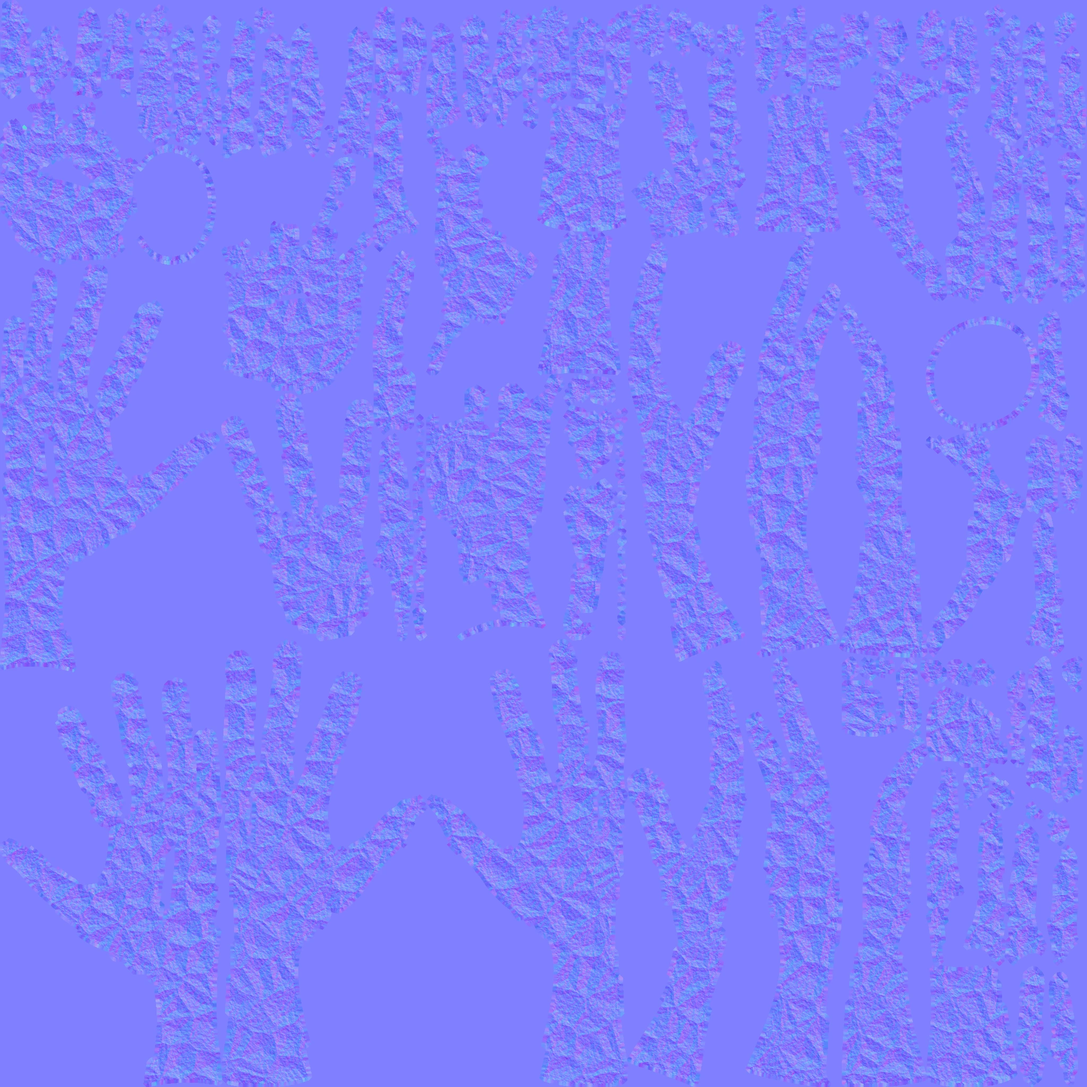
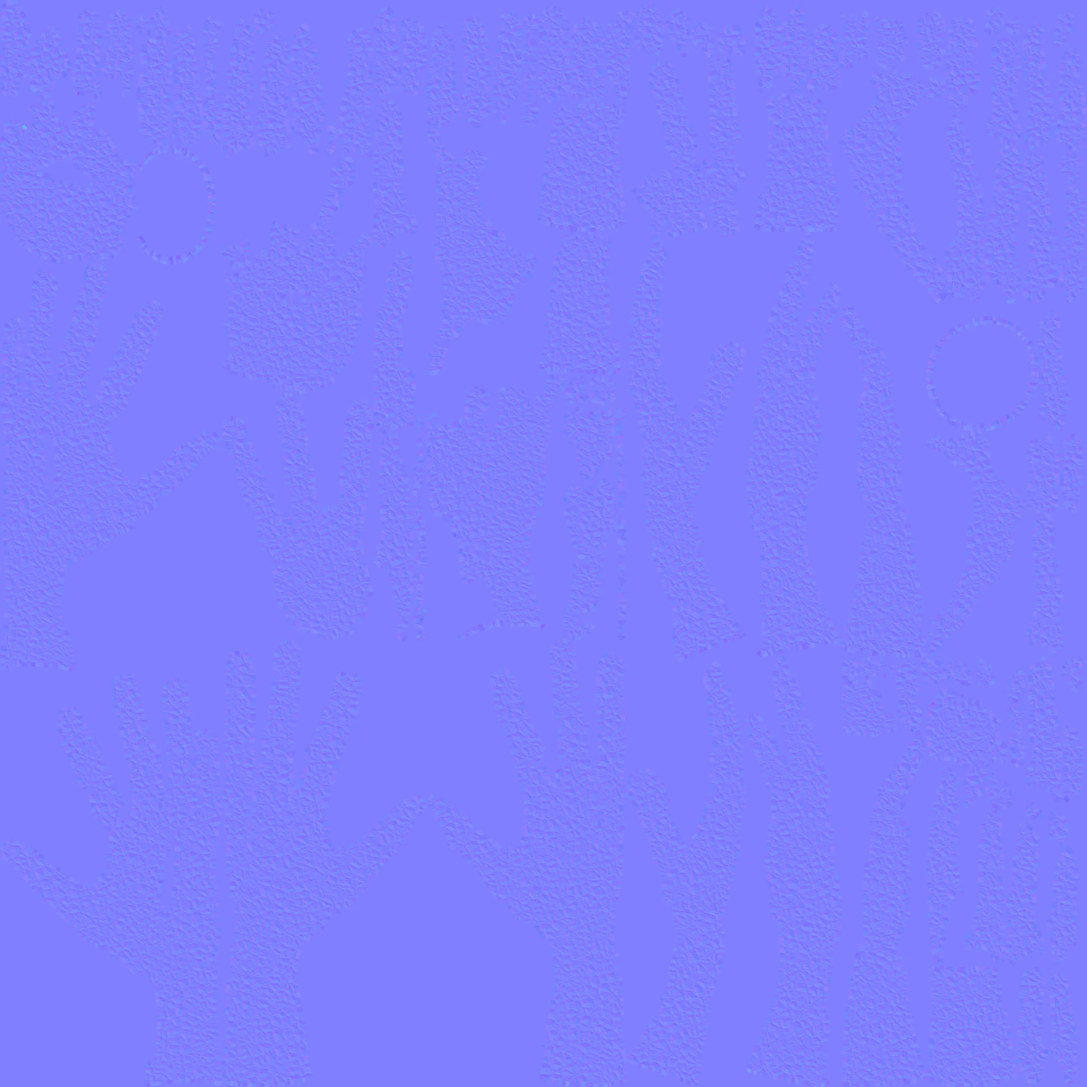
Strzelnica FPP: nadgarstki proste, dłonie naturalnie na broni
Obrót dłoni i biegun łokcia dobierane przeglądem pod najmniejsze zgięcie
nadgarstka po IK (lewy był zgięty ok. 100°), przedramię ukośnie w kadrze.
Prawa dłoń linią kostek na przedniej krawędzi chwytu pistoletowego, palce
przeglądem póz (razem, przylegają całą długością), skóra rękawic bez grud.

diff --git a/prototype/tools/fp_grip.py b/prototype/tools/fp_grip.py
@@ -48,12 +48,17 @@ PALM_R = 0.019                         # m — pół grubości dłoni w rękawic
 # (wzdłuż −back: wnętrze dłoni dotyka broni), `push` — przesunięcie punktu. `sink` — broń cofnięta (m, kolba chowa się w barku poza
 # kadrem) i podniesiona względem barków: obie ręce zgięte, przedramiona wchodzą w kadr od dołu (skrót jak w viewmodelach FPS; z pełną
 # długością lewa ręka szła prosto i poziomo przez kadr). `trigger` — punkt na przedniej ściance języka spustu (układ broni), do którego
-# sięga opuszka wskazującego.
+# sięga opuszka wskazującego. `roll` / `tilt` / `pole` — zakresy przeglądu obrotu dłoni i łokcia (orient_hand), `flex` — docelowe
+# zgięcie nadgarstka (°, < 0 — lekki wyprost), `dev` — dopuszczalne odchylenie nadgarstka (°; przy podparciu łoża łokciowe jest
+# naturalne), `screen` — kąt przedramienia w kadrze od pionu (lewe wchodzi ukośnie od lewego dołu, jak w viewmodelach FPS). `mcp` (zamiast `at` / `push` / `off`) — punkt kostki środkowego palca: dłoń na chwycie pistoletowym
+# ustawiana linią kostek na przedniej krawędzi chwytu, nasada dłoni obejmuje go od tyłu.
 GRIPS = {
     "m83": {
         "yaw": 35.0, "butt_dz": 0.02, "clav": (6.0, 12.0), "sink": (0.06, 0.07), "trigger": (0.068, 0.0, 0.086),
-        "right": {"at": "grip", "push": (-0.022, -0.004, 0.008), "up": (0.34, 0.0, 0.94), "back": (-0.25, -0.97, 0.0), "off": 0.022},
-        "left": {"at": "hold", "push": (0.0, 0.042, -0.03), "up": (1.0, 0.0, 0.0), "back": (0.0, 0.6, -0.8), "off": 0.012},
+        "right": {"at": "grip", "mcp": (0.014, -0.026, 0.056), "push": (-0.022, -0.004, 0.008), "up": (0.34, 0.0, 0.94),
+                  "back": (-0.25, -0.97, 0.0), "off": 0.022, "roll": 30, "tilt": 15},
+        "left": {"at": "hold", "push": (0.0, 0.042, -0.03), "up": (1.0, 0.0, 0.0), "back": (0.0, 0.6, -0.8), "off": 0.012,
+                 "roll": 60, "tilt": 20, "flex": -15.0, "dev": 22.0, "screen": 60.0},
     },
 }
 
@@ -141,13 +146,17 @@ def place_hand(rig, side, gun_m, info, conf, seat=Vector()):
     f, a, b, pc = hand_frame(rig, side)
     R = frame_matrix(ft, up, back) @ frame_matrix(f, a, b).inverted()
     w = P(rig, side + "Hand")
-    target_pc = gun_m @ (Vector(info[conf["at"]]) + Vector(conf["push"])) + back * conf["off"] + seat
+    if "mcp" in conf:                               # punkt kostki środkowego palca (chwyt pistoletowy: przednia krawędź chwytu)
+        half = (P(rig, side + "HandMiddle1") - P(rig, side + "Hand")).length * 0.5
+        target_pc = gun_m @ Vector(conf["mcp"]) - ft.normalized() * half + seat
+    else:
+        target_pc = gun_m @ (Vector(info[conf["at"]]) + Vector(conf["push"])) + back * conf["off"] + seat
     wrist = target_pc - R @ (pc - w)
     hw = (rig.matrix_world @ rig.pose.bones[PRE + side + "Hand"].matrix).to_3x3().normalized()
     return wrist, (R @ hw).normalized()        # docelowy obrót kości dłoni w świecie
 
 
-def solve_arm(rig, side, wrist, hand_rot, pole):
+def solve_arm(rig, side, wrist, hand_rot, pole, quiet=False):
     """IK ramienia (przedramię do nadgarstka, biegun łokcia), potem obrót dłoni — ograniczenia zapieczone w pozę."""
     pb_f = rig.pose.bones[PRE + side + "ForeArm"]
     pb_h = rig.pose.bones[PRE + side + "Hand"]
@@ -180,12 +189,22 @@ def solve_arm(rig, side, wrist, hand_rot, pole):
     for o in (tgt, pol, rot):
         bpy.data.objects.remove(o)
     update()
-    share_twist(rig, side, hand_rot)
+    tw = share_twist(rig, side, hand_rot, quiet=quiet)
     err = (P(rig, side + "Hand") - wrist).length
-    print("IK %s wrist error %.1f mm" % (side, err * 1000.0))
+    if not quiet:
+        print("IK %s wrist error %.1f mm" % (side, err * 1000.0))
+    return tw
 
 
-def share_twist(rig, side, hand_rot, share=0.6):
+def wrist_bend(rig, side):
+    """Zgięcie nadgarstka (°): `flex` — zgięcie / wyprost (w płaszczyźnie palce–grzbiet), `dev` — odchylenie promieniowe / łokciowe
+    (w płaszczyźnie palce–kostki). Oś przedramienia w układzie dłoni."""
+    f, a, b, _ = hand_frame(rig, side)
+    d = (P(rig, side + "Hand") - P(rig, side + "ForeArm")).normalized()
+    return math.degrees(math.atan2(d.dot(b), d.dot(f))), math.degrees(math.atan2(d.dot(a), d.dot(f)))
+
+
+def share_twist(rig, side, hand_rot, share=0.6, quiet=False):
     """Skręt nadgarstka dzielony z przedramieniem (szkielet nie ma kości skrętu): cały obrót dłoni wokół osi przedramienia w jednym
     stawie zwija skórę rękawicy jak papierek od cukierka. Przedramię bierze `share` skrętu, dłoń wraca do zadanego obrotu."""
     pb_f = rig.pose.bones[PRE + side + "ForeArm"]
@@ -202,7 +221,9 @@ def share_twist(rig, side, hand_rot, share=0.6):
     head = rig.matrix_world.inverted() @ P(rig, side + "Hand")
     pb_h.matrix = Matrix.Translation(head) @ (rig.matrix_world.inverted().to_3x3() @ hand_rot).to_4x4()
     update()
-    print("TWIST %s %.0f deg (forearm %.0f)" % (side, math.degrees(tw), math.degrees(tw * share)))
+    if not quiet:
+        print("TWIST %s %.0f deg (forearm %.0f)" % (side, math.degrees(tw), math.degrees(tw * share)))
+    return math.degrees(tw)
 
 
 def palm_gap(rig, side, bvh):
@@ -227,6 +248,40 @@ def seat_hand(rig, side, G, info, c, bvh, pole):
             break
         seat -= hand_frame(rig, side)[2] * gap * 0.9
     print("SEAT %s palm gap %.1f mm (shift %.1f mm)" % (side, gap * 1000.0, seat.length * 1000.0))
+
+
+def orient_hand(rig, side, G, info, c, pole):
+    """Obrót dłoni na broni i łokieć dobrane pod nadgarstek: przegląd przetoczenia wokół linii kostek (`up`, dłoń toczy się po łożu /
+    chwycie), odchylenia w płaszczyźnie dłoni (wokół `back`) i obrotu bieguna łokcia wokół osi bark–nadgarstek; wybór z najmniejszym
+    zgięciem nadgarstka po IK. Sztywne `up` / `back` z GRIPS dawały dłoń płasko na łożu i przedramię z innego kierunku — nadgarstek
+    zgięty o ~100° („złamany”). Zwraca (nowy `c`, biegun)."""
+    base = _pose_get(rig)
+    up0, back0 = Vector(c["up"]).normalized(), Vector(c["back"]).normalized()
+    lim_r, lim_t, lim_p = c.get("roll", 90), c.get("tilt", 60), c.get("pole", 60)
+    sh = P(rig, side + "Arm")
+    best = None
+    for roll in range(-lim_r, lim_r + 1, 15):
+        for tilt in range(-lim_t, lim_t + 1, 15):
+            R = Matrix.Rotation(math.radians(roll), 3, up0) @ Matrix.Rotation(math.radians(tilt), 3, back0)
+            cc = dict(c, up=tuple(R @ up0), back=tuple(R @ back0))
+            for pa in range(-lim_p, lim_p + 1, 20):
+                _pose_set(rig, base)
+                wrist, hr = place_hand(rig, side, G, info, cc)
+                pl = sh + Matrix.Rotation(math.radians(pa), 3, (wrist - sh).normalized()) @ (pole - sh)
+                tw = solve_arm(rig, side, wrist, hr, pl, quiet=True)
+                flex, dev = wrist_bend(rig, side)
+                el = math.degrees((P(rig, side + "ForeArm") - sh).angle(P(rig, side + "Hand") - P(rig, side + "ForeArm")))
+                fa = G.to_3x3().normalized().inverted() @ (P(rig, side + "Hand") - P(rig, side + "ForeArm"))
+                scr = math.degrees(math.atan2(-fa.y if side == "Left" else fa.y, fa.z))   # przedramię w kadrze: 0 = pionowo od dołu
+                cost = max(0.0, abs(flex - c.get("flex", 0.0)) - 10.0) ** 2 + 2.0 * max(0.0, abs(dev) - c.get("dev", 8.0)) ** 2 \
+                    + 0.5 * max(0.0, abs(tw) - 100.0) ** 2 + 0.2 * max(0.0, 20.0 - el) ** 2 + 0.015 * (roll * roll + tilt * tilt + pa * pa) \
+                    + (max(0.0, abs(scr - c["screen"]) - 10.0) ** 2 if "screen" in c else 0.0)
+                if best is None or cost < best[0]:
+                    best = (cost, roll, tilt, pa, cc, pl, flex, dev, tw, el, scr)
+    _pose_set(rig, base)
+    _, roll, tilt, pa, cc, pl, flex, dev, tw, el, scr = best
+    print("ORIENT %s roll %d tilt %d pole %d -> flex %.0f dev %.0f twist %.0f elbow %.0f screen %.0f" % (side, roll, tilt, pa, flex, dev, tw, el, scr))
+    return cc, pl
 
 
 def rotate_world(rig, name, axis_w, ang):
@@ -326,7 +381,7 @@ def _apply_finger(rig, names, back, ax, s, a1, a2, a3):
 SKIN = 0.0025       # m — o tyle kapsuła członu może wejść w broń (pełne kapsuły; skóra rękawicy i palca się ugina)
 
 
-def aim_index(rig, side, bvh, back, target):
+def aim_index(rig, side, bvh, back, target, across):
     """Wskazujący na spuście: przegląd siatki kątów (rozchylenie, zgięcie nasady, zgięcie dalszych członów 1 : 0,6) liczony
     analitycznie, wybór pozy z opuszką najbliżej `target` bez wchodzenia w broń (kabłąk), potem zapis w kości. Zwraca odległość (m)."""
     names = [side + "HandIndex" + str(i) for i in (1, 2, 3)]
@@ -336,11 +391,13 @@ def aim_index(rig, side, bvh, back, target):
     best = None
     for s in range(-36, 37, 4):
         for a1 in range(0, 91, 3):
-            for a2 in range(0, 101, 4):
+            for a2 in range(0, 111, 4):
                 pts, ax = _finger_fk(K, L, d0, back, s, (a1, a1 + a2, a1 + 1.6 * a2))
                 p3, q3, d3 = pts[2]
                 pad = p3.lerp(q3, 0.5) + ax.cross(d3).normalized() * SEG_R[2]
                 dist = (pad - target).length
+                over = max(0.0, (q3 - target).dot(across) - 0.003)     # koniuszek (koniec kości; opuszka sięga ~1 cm dalej) nie wystaje za spust
+                dist += over * 2.0
                 if best is not None and dist >= best[0]:
                     continue
                 pen = max(0.0, -min(_capsule_gaps(pts, SEG_R, bvh)) - SKIN)
@@ -363,19 +420,26 @@ def wrap_finger(rig, side, finger, bvh, back):
     L = [(T(rig, n) - P(rig, n)).length for n in names]
     d0 = [(T(rig, n) - P(rig, n)).normalized() for n in names]
     best = None
-    spread = range(-15, 16, 5) if finger != "Thumb" else range(-30, 31, 6)
-    for s in spread:
+    spread = {"Index": range(-8, 5, 4), "Thumb": range(-30, 31, 6)}.get(finger, range(-4, 5, 4))
+    s0 = 0.0
+    if finger != "Thumb":                   # palce razem: poza spoczynkowa MPFB ma je rozcapierzone — najpierw równolegle do osi dłoni
+        f = hand_frame(rig, side)[0]
+        dp, fp = d0[0] - back * d0[0].dot(back), f - back * f.dot(back)
+        s0 = 0.85 * math.degrees(math.atan2(back.dot(dp.cross(fp)), dp.dot(fp)))
+    for s in [s0 + x for x in spread]:
         for a1 in range(0, 91, 5):
             for a2 in range(0, 101, 5):
                 pts, ax = _finger_fk(K, L, d0, back, s, (a1, a1 + a2, a1 + 1.7 * a2))
                 g = _capsule_gaps(pts, radii, bvh)
                 pen = max(0.0, -min(g) - SKIN)
-                cost = pen * 30.0 + max(0.0, g[2] - 0.002) * 3.0 - (a1 + 1.7 * a2) * 0.0003 + abs(s) * 0.0001
+                hug = sum(max(0.0, x - 0.003) for x in g) * (1.0 if finger == "Thumb" else 1.5)   # przylega całą długością (nie hak)
+                cost = pen * 30.0 + max(0.0, g[2] - 0.002) * 3.0 + hug - (a1 + 1.7 * a2) * 0.0003 + abs(s - s0) * 0.0001 \
+                    + abs(a1 - 0.8 * a2) * 0.0001
                 if best is None or cost < best[0]:
                     best = (cost, s, a1, a2, ax, g)
     _, s, a1, a2, ax, g = best
     _apply_finger(rig, names, back, ax, s, a1, a2, 0.7 * a2)
-    print("WRAP %s %s spread %d curl %d/%d gaps %s mm" % (side, finger, s, a1, a2, [round(x * 1000, 1) for x in g]))
+    print("WRAP %s %s spread %.0f curl %d/%d gaps %s mm" % (side, finger, s, a1, a2, [round(x * 1000, 1) for x in g]))
 
 
 def _pose_get(rig):
@@ -469,7 +533,7 @@ def author_reloads(rig, key, G, info, conf, meshes, root):
         mag_bvh = gun_bvh([mag]) if mag is not None else bvh
         _pose_set(rig, grip_pose)
         if gname != "rest":                                          # prawa ręka za bronią: dłoń osadzona na chwycie, palce jak w chwycie
-            seat_hand(rig, "Right", Gk, info, conf["right"], bvh, P(rig, "RightArm") + POLES["Right"])
+            seat_hand(rig, "Right", Gk, info, conf["right"], bvh, P(rig, "RightArm") + conf.get("right_pole", POLES["Right"]))
             for n, q in right_fingers.items():
                 rig.pose.bones[n].rotation_quaternion = q
             update()
@@ -479,7 +543,7 @@ def author_reloads(rig, key, G, info, conf, meshes, root):
             print("RHCHK %s/%s rot %.1f deg pos %.1f mm" % (hname, gname, math.degrees(d.to_quaternion().angle), d.translation.length * 1000))
         if hname == "grip":
             if gname != "rest":
-                seat_hand(rig, "Left", Gk, info, conf["left"], bvh, P(rig, "LeftArm") + POLES["Left"])
+                seat_hand(rig, "Left", Gk, info, conf["left"], bvh, P(rig, "LeftArm") + conf.get("left_pole", POLES["Left"]))
                 for n in _hand_bones(rig, "Left"):
                     rig.pose.bones[n].rotation_quaternion = grip_pose[n]
                 update()
@@ -491,7 +555,7 @@ def author_reloads(rig, key, G, info, conf, meshes, root):
         update()
         c = {"at": "p", "push": (0.0, 0.0, 0.0), "up": up, "back": back, "off": off}
         wrist, hrot = place_hand(rig, "Left", Gk, {"p": tuple(p)}, c)
-        solve_arm(rig, "Left", wrist, hrot, P(rig, "LeftArm") + POLES["Left"])
+        solve_arm(rig, "Left", wrist, hrot, P(rig, "LeftArm") + conf.get("left_pole", POLES["Left"]))
         bk = hand_frame(rig, "Left")[2]
         if fingers == "mag":
             for fg in FINGERS + ("Thumb",):
@@ -636,18 +700,21 @@ def build(outfit, keys):
         update()
         bvh = gun_bvh(meshes)
         for side, pole in POLES.items():
+            conf[side.lower()], pl = orient_hand(rig, side, G, info, conf[side.lower()], P(rig, side + "Arm") + pole)
+            conf[side.lower() + "_pole"] = pl - P(rig, side + "Arm")
             c = conf[side.lower()]
-            seat_hand(rig, side, G, info, c, bvh, P(rig, side + "Arm") + pole)
+            seat_hand(rig, side, G, info, c, bvh, pl)
             f2, a2, b2, pc2 = hand_frame(rig, side)
             gr = G.to_3x3().normalized()
             want_pc = G @ (Vector(info[c["at"]]) + Vector(c["push"]))
             print("HAND %s f %s a %s b %s | want up %s back %s | palm-point %.1f mm" % (side, tuple(round(x, 2) for x in f2), tuple(round(x, 2) for x in a2),
                   tuple(round(x, 2) for x in b2), tuple(round(x, 2) for x in (gr @ Vector(c["up"])).normalized()), tuple(round(x, 2) for x in (gr @ Vector(c["back"])).normalized()),
                   (pc2 - want_pc).length * 1000))
+            print("WRIST %s flex %.0f dev %.0f deg" % ((side,) + wrist_bend(rig, side)))
             back = hand_frame(rig, side)[2]
             for fg in FINGERS + ("Thumb",):
                 if side == "Right" and fg == "Index" and "trigger" in conf:
-                    aim_index(rig, side, bvh, back, G @ Vector(conf["trigger"]))
+                    aim_index(rig, side, bvh, back, G @ Vector(conf["trigger"]), (G.to_3x3() @ Vector((0.0, 1.0, 0.0))).normalized())
                 else:
                     wrap_finger(rig, side, fg, bvh, back)
         # klip pozy i punkt odniesienia broni na kości prawej dłoni
@@ -681,6 +748,9 @@ def build(outfit, keys):
             gx = G.to_3x3().normalized()
             for nm, off in (("rr", (0.0, -0.45, 0.0)), ("rl", (0.0, 0.45, 0.0)), ("rb", (0.05, -0.15, -0.4)), ("rf", (0.45, -0.12, 0.0))):
                 render(os.path.join(SHOTS, "grip_%s_%s.png" % (key, nm)), look(gp + gx @ Vector(off), gp), 50.0)
+            hp = G @ Vector(info["hold"])
+            for nm, off in (("lt", (0.0, 0.05, 0.4)), ("ll", (0.0, 0.4, -0.05)), ("lb", (0.0, 0.1, -0.4)), ("lr", (0.0, -0.4, 0.0))):
+                render(os.path.join(SHOTS, "grip_%s_%s.png" % (key, nm)), look(hp + gx @ Vector(off), hp), 50.0)
         if key in RELOADS and not QUICK:
             reload_meta[key] = author_reloads(rig, key, G, info, conf, meshes, root)
             rig.animation_data.action = act

diff --git a/prototype/tools/fp_arms.py b/prototype/tools/fp_arms.py
@@ -194,7 +194,7 @@ def leather_material(name):
     nt.links.new(tc.outputs["Object"], grain.inputs["Vector"])
     crease = nt.nodes.new("ShaderNodeTexVoronoi")
     crease.feature = "DISTANCE_TO_EDGE"
-    crease.inputs["Scale"].default_value = 55.0                 # zmarszczki skóry (stawy, grzbiet dłoni)
+    crease.inputs["Scale"].default_value = 170.0                # drobne zmarszczki skóry (ok. 6 mm; przy 55 grudy ~18 mm — dłoń jak z gliny)
     nt.links.new(tc.outputs["Object"], crease.inputs["Vector"])
     mottle = nt.nodes.new("ShaderNodeTexNoise")
     mottle.inputs["Scale"].default_value = 45.0
@@ -228,11 +228,11 @@ def leather_material(name):
     nt.links.new(rough.outputs["Result"], bsdf.inputs["Roughness"])
     b1 = nt.nodes.new("ShaderNodeBump")
     b1.inputs["Strength"].default_value = 1.0
-    b1.inputs["Distance"].default_value = 0.0012
+    b1.inputs["Distance"].default_value = 0.0003
     nt.links.new(grain.outputs["Fac"], b1.inputs["Height"])
     b2 = nt.nodes.new("ShaderNodeBump")
     b2.inputs["Strength"].default_value = 1.0
-    b2.inputs["Distance"].default_value = 0.003
+    b2.inputs["Distance"].default_value = 0.0005
     b2.invert = True
     nt.links.new(crease.outputs["Distance"], b2.inputs["Height"])
     nt.links.new(b1.outputs["Normal"], b2.inputs["Normal"])

diff --git a/CHANGELOG.md b/CHANGELOG.md
@@ -376,4 +376,4 @@ wystarcza im historia gita. Serie PR-ów prowadzone własnym planem (np. `AUDIO_
 | 1.7.332 | 2026-10-20 | **Widok 3D: poświata znajdziek przy przedmiocie.** Światło znajdźki (łup, zaopatrzenie, broń, magazynek) stało w 3D jak każde światło 1 m przed płaszczyzną gry, z zasięgiem co najmniej 3 m — przedmiot stoi 0,2 m za nią, a kamera patrzy lekko z góry, więc jasna plama na ziemi wypadała na ekranie pod przedmiotem, a sam przedmiot był oświetlony od dołu-przodu (cień w górę). Teraz poświata wisi tuż nad przedmiotem (z 0,05 m) i ma zasięg 1,2–4 m: otula przedmiot, cień pada po ziemi. |
 | 1.7.333 | 2026-10-20 | **Broń: części jako znaleziska.** Etap 5c planu `GUNSMITH_PLAN.md`. Ukryte skrytki misji poza złomem zawierają część broni, którą drużyna ma (losową, jeszcze nieodblokowaną), a elity w 30 % zostawiają część na ziemi — widać jej model z poświatą, bierze ją ten, kto podejdzie. Znaleziona część czeka do ewakuacji jak łup złomu: po udanej ewakuacji jest odblokowana dla całej drużyny za darmo, wipe ją zabiera. Toasty przy znalezieniu i odblokowaniu, w warsztacie dopisek „found — extract”. Dev: `--shotpart`. Testy w `--weapontest`. |
 | 1.7.335 | 2026-10-20 | **Strzelnica FPP: szpic (`--range3d`).** Etap 0 planu `RANGE_FPS_PLAN.md`. Flaga `--range3d` stawia lokalnego gracza w kryjówce i przełącza obraz na widok z oczu w betonowym tunelu strzelnicy (własny świat 3D: ława ze stanowiskami, przesłony, kulochwyt, lampy, pięć stalowych blach na 7–20 m, tablica z czasem). Broń strzela tym samym kontrolerem co na misji (`weapon_controller.range_sink`): magazynek, przeładowania, zacięcia, gorąca lufa i podrzut działają bez zmian, podrzut unosi kamerę, a rozrzut 2D (±kąt) staje się stożkiem 3D o tym samym kącie. Amunicja ćwiczebna (`practice`): przeładowanie nie bierze naboi z zapasu, strzały nie zużywają broni, magazynek z resztkami nie spada w kryjówce. Mysz rozgląda się, A/D zmieniają stanowisko, przytrzymany Shift to przyklęk z bronią na ławie (oparcie), PPM celuje przez przyrządy (nowa akcja `aim_sights`, cios na strzelnicy wyłączony), E wychodzi. Trafienia liczone wzorem (promień kontra blachy i ściany tunelu) — jawny, wąski wyjątek od symulacji 2D w CLAUDE.md. Test `--rangetest` w CI. Ręce to model postaci gracza (`fp_arms.gd`: siatka i ubranie przycięte do kości rąk, IK dłoni na chwycie i łożu z `char3d.gd`, palce zaciśnięte; model ustawiony od kolby w barku, tułów bokiem; pistolet w postawie równoramiennej). Obraz renderuje się w pikselach okna (nie w 640×360 interfejsu). Do zrzutów: `--rangeslot=N`, `--rangeads`, `--rangelook=YAW,PITCH`, `--rangefire=S`. Bez wejścia z kryjówki (etap 1). |
-| 1.7.336 | 2026-10-21 | **Strzelnica FPP: ręce z zasobu i chwyt M-83 ułożony na broni.** Etap 0b planu `RANGE_FPS_PLAN.md`. Ręce do widoku z oczu budowane w Blenderze (`tools/fp_arms.py`): pełna siatka MPFB (każdy staw palca), skórzane rękawice z dłoni ciała (ziarno, zmarszczki, przetarcia wypiekane do tekstur), rękawy kurtki M65 z symulacji tkaniny w wersji FPP z karczkiem (`cloth_garments.py --fp`, prawy rękaw odbiciem lewego), zegarek na lewym nadgarstku. Chwyt M-83 układany na modelu broni (`tools/fp_grip.py`): kolba w barku, dłonie z układów zmierzonych na szkielecie, IK ramion z podziałem skrętu nadgarstka na przedramię, palce zginane do kontaktu z siatką broni; poza jako klip `grip_m83` i węzeł `gunref_m83` na kości dłoni — w grze broń jest dzieckiem dłoni (`fp_rig.gd`). Przeładowania `reload_m83` / `reload_empty_m83` (lewa dłoń: magazynek, ładownica, nowy magazynek, suwadło od dołu) odtwarzane wg postępu przeładowania, magazynek jedzie w dłoni. Osobna kamera rąk i broni (58°, zawsze nad tunelem), kołysanie za myszą, oddech, odrzut na sprężynie, M-83 z teksturami 4K tylko na strzelnicy (`GunModel.build` z katalogiem). Światło strzelnicy skalibrowane pod ręce: tonemapping AgX, lampy ok. 3800 K bez lampy nad dłońmi, słabe wypełnienie tylko dla warstwy rąk; dłonie osadzane na broni (wnętrze dłoni do kontaktu), lewa obejmuje łoże. Przeładowania mają 11 i 15 klatek kluczowych z ruchem broni w klipie (przechył do lewej dłoni, podbicie przy zatrzaśnięciu, szarpnięcie suwadła; prawa ręka idzie za bronią przez IK, kadr kotwiczy ręce pozą chwytu), palce hakiem na rączce suwadła. Łuski 3D (stal lakierowana 7,62×39, czerwone 12/70) z okna wyrzutowego: rotacja, odbicia od ławy, podłogi, ścian i przegród stanowisk, stuk, zostają na ziemi (do 60); dym z wylotu po strzale i smużki z gorącej lufy (`range_fx.gd`); punkty startu przeliczane z kamery rąk na kamerę tunelu. Mechanika M-83: suwadło z rączką i język spustu to osobne podzespoły modelu (`gun_proc.py`: `bolt`, `trigger`) — przy strzale suwadło cofa się o 8 cm i wraca (25 + 35 ms), spust się ściąga, w klipie z pustego suwadło idzie za rączką w lewej dłoni i wraca po puszczeniu. Dźwięki mechaniki rozdzielone na zdarzenia (`bake_weapons.py`: `mech_mag_release`, `mech_mag_out`, `mech_mag_in`, `mech_bolt_back`, `mech_bolt_fwd`, `mech_regrip`) i grane w klatkach klipu (lista `events` w `fp_arms_scav.json`); ogólny dźwięk „reload” na strzelnicy milczy. Ręce bez dziur i strzępów: rękawica to cała dłoń odcięta płaszczyzną przy mankiecie (wybór ścian po wagach dziurawił grzbiet dłoni i rwał palce), kurtka FPP symetryczna z lewej połowy ze zszytym środkiem, karczek cięty płaszczyzną, mankiety wygładzone, tkanina z grubością; UV rękawa jak wykrój (jedno cięcie po wewnętrznej stronie ręki, równa gęstość od barku po mankiet — wcześniej przedramię było ściśnięte ok. 20×), kamuflaż malowany w 3D (ciągły przez szwy). Pozostałe bronie na dotychczasowych rękach z modelu postaci. Dev `--rangereload=S[,empty]`. |
+| 1.7.336 | 2026-10-21 | **Strzelnica FPP: ręce z zasobu i chwyt M-83 ułożony na broni.** Etap 0b planu `RANGE_FPS_PLAN.md`. Ręce do widoku z oczu budowane w Blenderze (`tools/fp_arms.py`): pełna siatka MPFB (każdy staw palca), skórzane rękawice z dłoni ciała (ziarno, zmarszczki, przetarcia wypiekane do tekstur), rękawy kurtki M65 z symulacji tkaniny w wersji FPP z karczkiem (`cloth_garments.py --fp`, prawy rękaw odbiciem lewego), zegarek na lewym nadgarstku. Chwyt M-83 układany na modelu broni (`tools/fp_grip.py`): kolba w barku, dłonie z układów zmierzonych na szkielecie, IK ramion z podziałem skrętu nadgarstka na przedramię, palce zginane do kontaktu z siatką broni; poza jako klip `grip_m83` i węzeł `gunref_m83` na kości dłoni — w grze broń jest dzieckiem dłoni (`fp_rig.gd`). Przeładowania `reload_m83` / `reload_empty_m83` (lewa dłoń: magazynek, ładownica, nowy magazynek, suwadło od dołu) odtwarzane wg postępu przeładowania, magazynek jedzie w dłoni. Osobna kamera rąk i broni (58°, zawsze nad tunelem), kołysanie za myszą, oddech, odrzut na sprężynie, M-83 z teksturami 4K tylko na strzelnicy (`GunModel.build` z katalogiem). Światło strzelnicy skalibrowane pod ręce: tonemapping AgX, lampy ok. 3800 K bez lampy nad dłońmi, słabe wypełnienie tylko dla warstwy rąk; dłonie osadzane na broni (wnętrze dłoni do kontaktu), lewa obejmuje łoże. Przeładowania mają 11 i 15 klatek kluczowych z ruchem broni w klipie (przechył do lewej dłoni, podbicie przy zatrzaśnięciu, szarpnięcie suwadła; prawa ręka idzie za bronią przez IK, kadr kotwiczy ręce pozą chwytu), palce hakiem na rączce suwadła. Łuski 3D (stal lakierowana 7,62×39, czerwone 12/70) z okna wyrzutowego: rotacja, odbicia od ławy, podłogi, ścian i przegród stanowisk, stuk, zostają na ziemi (do 60); dym z wylotu po strzale i smużki z gorącej lufy (`range_fx.gd`); punkty startu przeliczane z kamery rąk na kamerę tunelu. Mechanika M-83: suwadło z rączką i język spustu to osobne podzespoły modelu (`gun_proc.py`: `bolt`, `trigger`) — przy strzale suwadło cofa się o 8 cm i wraca (25 + 35 ms), spust się ściąga, w klipie z pustego suwadło idzie za rączką w lewej dłoni i wraca po puszczeniu. Dźwięki mechaniki rozdzielone na zdarzenia (`bake_weapons.py`: `mech_mag_release`, `mech_mag_out`, `mech_mag_in`, `mech_bolt_back`, `mech_bolt_fwd`, `mech_regrip`) i grane w klatkach klipu (lista `events` w `fp_arms_scav.json`); ogólny dźwięk „reload” na strzelnicy milczy. Ręce bez dziur i strzępów: rękawica to cała dłoń odcięta płaszczyzną przy mankiecie (wybór ścian po wagach dziurawił grzbiet dłoni i rwał palce), kurtka FPP symetryczna z lewej połowy ze zszytym środkiem, karczek cięty płaszczyzną, mankiety wygładzone, tkanina z grubością; UV rękawa jak wykrój (jedno cięcie po wewnętrznej stronie ręki, równa gęstość od barku po mankiet — wcześniej przedramię było ściśnięte ok. 20×), kamuflaż malowany w 3D (ciągły przez szwy). Chwyt jak w viewmodelach FPS: łokcie w dół, przedramiona wchodzą w kadr od dołu, obrót dłoni i łokieć dobierane pod prosty nadgarstek (wcześniej lewy był zgięty o ok. 100°), prawa dłoń obejmuje chwyt pistoletowy z palcem na spuście, palce lewej razem owinięte na łożu, skóra rękawic gładka (bez grud). Pozostałe bronie na dotychczasowych rękach z modelu postaci. Dev `--rangereload=S[,empty]`. |

diff --git a/RANGE_FPS_PLAN.md b/RANGE_FPS_PLAN.md
@@ -123,6 +123,7 @@ Decyzje użytkownika: rękawice skórzane + rękaw M65, MPFB + nasz pipeline (be
 | Rękaw (poprawki 2026-10-21) | rękawica z płaszczyzny cięcia (pełna dłoń, równy mankiet), kurtka z lewej połowy (`mirror_half`), karczek z płaszczyzny, `smooth_cuffs`, grubość tkaniny 1,8 mm, `unwrap_fp` (cięcie po wewnętrznej stronie ręki, MINIMUM_STRETCH, gęstość 0,83–0,85 na całej długości), kamuflaż z szumu 3D (`_bake_positions`, `_noise3`) | zrobione |
 | Rękaw | `cloth_garments.py --fp` → `art_src/clothes/male_scav_m65_fp.glb` (same rękawy + karczek, własne UV 2K; prawy = odbicie lewego, bo w symulacji prawy mankiet podjeżdża) | zrobione |
 | Chwyt | `tools/fp_grip.py`: układy dłoni, IK z biegunem łokcia, podział skrętu, osadzenie dłoni (wnętrze dłoni dosuwane do broni), palce do kontaktu (BVH, do 125°), klip `grip_m83` + `gunref_m83` | obie dłonie na broni: palce prawej na chwycie, lewa obejmuje łoże (luz 0–0,5 mm) |
+| Chwyt jak w viewmodelach FPS (poprawki 2026-10-21) | łokcie w dół, broń cofnięta i uniesiona względem barków (`sink`) — przedramiona wchodzą w kadr od dołu, bark poza kadrem; `orient_hand`: przegląd przetoczenia i odchylenia dłoni oraz bieguna łokcia, wybór z najmniejszym zgięciem nadgarstka po IK (było ~100° zgięcia i odchylenia lewego — „złamany”; jest ok. −35° wyprostu i 20° odchylenia łokciowego, prawy ~0°) i z przedramieniem ukośnie w kadrze; prawa dłoń linią kostek na przedniej krawędzi chwytu (`mcp`), wskazujący dobierany do języka spustu (`aim_index`), pozostałe palce przeglądem póz (`wrap_finger`: największe zgięcie bez wchodzenia w broń, przylega całą długością, palce razem); skóra rękawicy bez grud (zmarszczki ~6 mm, 0,5 mm głębokości); `--quick=1` — sama poza i zbliżenia | zrobione |
 | Przeładowanie | `reload_m83` (1,35 s, 11 klatek) i `reload_empty_m83` (1,8 s, 15 klatek): lewa dłoń sięga, chwyta, wyważa, wyciąga, ładownica, powrót, zahaczenie, zatrzaśnięcie; broń ma w każdej klatce pozę (`GUN_POSES`: przechył ~10°, podbicie, szarpnięcie suwadła), prawa ręka za nią przez IK; palce: kontakt z magazynkiem albo ułożenia (`FINGER_SETS`: dłoń otwarta, hak na suwadle, puszczenie); w grze ręce kotwiczone pozą chwytu (`fp_rig.anchor`) | zrobione |
 | Mechanika broni | `gun_proc.py`: podzespoły `bolt` (suwadło widoczne w oknie + rączka) i `trigger` (język spustu) M-83; `fp_rig.gd`: cykl suwadła po strzale (8 cm, 25 ms w tył, 35 ms w przód), suwadło za rączką w klipie (`bolt` w .json: chwyt / odciągnięcie / puszczenie), spust 12° wokół nasady. Kurek AKM jest wewnątrz komory — z zewnątrz go nie widać, więc go nie animujemy | zrobione |
 | Dźwięki przeładowania | `bake_weapons.py`: osobne `mech_*` (zatrzask, magazynek wysuwany i wsuwany, suwadło w tył i w przód, chwyt łoża) + `foley_gear`; `fp_grip.py SOUNDS` przypina je do klatek, range_view.gd gra je, gdy postęp przeładowania mija klatkę; `weapon_controller._reload_sfx` milczy, gdy klip ma własne dźwięki | zrobione |
